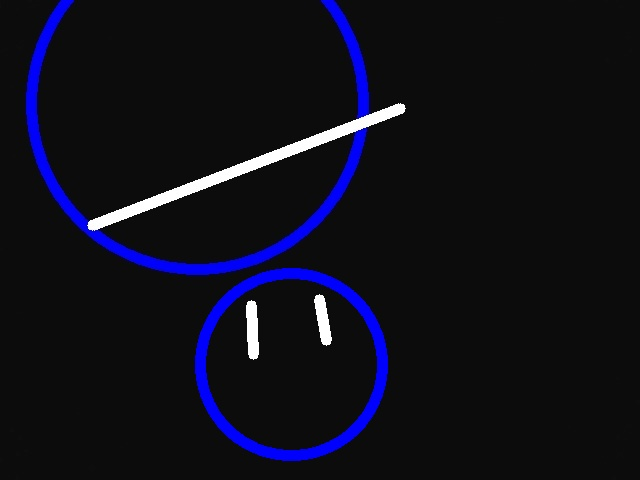
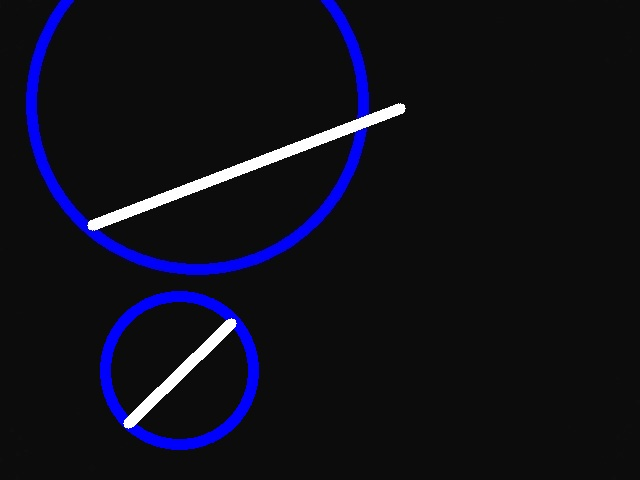
Modified the Annotation copy since it did not fully register all the shapes and optimized the ROI class to have both points

Changed region(s): [[0.1562, 0.5312, 0.625, 0.9688]]

diff --git a/src/ROIExtract.java b/src/ROIExtract.java
@@ -1,7 +1,4 @@
-import org.opencv.core.Core;
-import org.opencv.core.Mat;
-import org.opencv.core.MatOfByte;
-import org.opencv.core.Rect;
+import org.opencv.core.*;
 import org.opencv.imgcodecs.Imgcodecs;
 import org.opencv.imgproc.Imgproc;
 
@@ -36,7 +33,9 @@ public class ROIExtract {
     private static void loadData(){
         try(Scanner reader = new Scanner(new File("Images\\Data_Annotation_Copy_Image0.txt"))){
             System.out.println("start");
+            int counter = 0;
             while(reader.hasNextLine()){
+                counter++;
                 String currentROI = reader.nextLine();
                 System.out.println("in " + currentROI);
                 if(currentROI.isEmpty()){
@@ -44,24 +43,58 @@ public class ROIExtract {
                 }
                 //Simplifies storing information into objects
                 String[] currROI = currentROI.split(",");
+
                 // This is easier to store information compared to Storing an ArrayList inside an ArrayList
-                ROI roi1 = new ROI(currROI[0],Integer.parseInt(currROI[1]),
-                        Integer.parseInt(currROI[2]),Integer.parseInt(currROI[3]));
+                // The index will never go out of bounds, therefore this is acceptable
+                // also splits the {X,Y} Points so combining string is necessary
+                double[] xValues = new double[]{Double.parseDouble(currROI[2].replace("{","").trim())
+                        , Double.parseDouble(currROI[4].replace("{","").trim())};
+                double[] yValues = new double[]{Double.parseDouble(currROI[3].replace("}","").trim())
+                        , Double.parseDouble(currROI[5].replace("}","").trim())};
+
+                // Restore pts to get Rectangle size
+                Point currPt = new Point(xValues[0],yValues[0]);
+//                System.out.println(currPt + "PT");
+                Point endPt = new Point(xValues[1],yValues[1]);
+//                System.out.println(endPt + "PT");
+                ROI roi1 = new ROI(currROI[0],Integer.parseInt(currROI[1]),currPt,endPt);
 
                 ROIs.add(roi1);
                 //Will only show memory location, use ROIs.get(#).(objectsIdentifier) to get specifics
                 System.out.println(ROIs);
+                System.out.println(counter);
             }
         }
         catch(Exception e){
-            System.out.println(e.getMessage());
+            System.out.println("ERROR: " + e.getMessage());
         }
     }
 
     //@TODO ADD FEATURE THAT CROPS IMAGES BASED ON THE DATA
     private static void cropSubImages(){
+        int counter = 0;
         for(ROI r : ROIs){
-
+            if(r.shape.equals("Circle")){
+                String subFile = "Images\\SubImages\\Image0_subImage"+counter;
+                // (Leftmost pixel)int x pt, (Topmost)int y pt, int width, int height
+                // length represents the radius of the circle
+                //+10 to add padding for the circle thickness
+                int padding = 10;
+                Mat subMats = imageMat.submat(new Rect((int)(r.centerPt.x - r.length) + padding/2,(int)(r.centerPt.y - r.length) + padding/2
+                        ,2*r.length+padding,2*r.length+padding));
+                Imgcodecs.imwrite(subFile+".jpg",subMats);
+            }
+            else if(r.shape.equals("Line")){
+                double centerX = r.centerPt.x;
+                double centerY = r.centerPt.y;
+                double endX = r.endPt.x;
+                double endY = r.endPt.y;
+                int padding = 10;
+                Mat subMats = imageMat.submat(new Rect((int)Math.min(centerX,endX) + padding/2
+                        , (int)Math.min(centerY,endY) + padding/2, (int)(Math.max(centerX,endX) - Math.min(centerX,endX)) + padding
+                        , (int)(Math.max(centerY,endY) - Math.min(centerY,endY)) + padding));
+            }
+            counter++;
         }
     }
 
@@ -70,14 +103,14 @@ public class ROIExtract {
     private static class ROI{
         private String shape;
         private int length;
-        private int x;
-        private int y;
+        private Point centerPt;
+        private Point endPt;
 
-        public ROI(String shape, int length, int x, int y){
+        public ROI(String shape, int length, Point centerPt, Point endPt){
             this.shape = shape;
             this.length = length;
-            this.x = x;
-            this.y = y;
+            this.centerPt = centerPt;
+            this.endPt = endPt;
         }
     }
 

diff --git a/src/AnnotationTools.java b/src/AnnotationTools.java
@@ -92,10 +92,7 @@ public class AnnotationTools extends JFrame {
                     lineC = true;
                 }
                 System.out.println("Saved");
-                imageMat = tempM;
-                Imgcodecs.imencode(".jpg",imageMat,matB);
-                image.setIcon(new ImageIcon(matB.toArray()));
-                System.out.println(originalPt);
+
             }
 
             @Override
@@ -103,15 +100,19 @@ public class AnnotationTools extends JFrame {
                 super.mouseReleased(e);
                 if(e.getButton() == 1) {
                     circleC = false;
-                    // Shape, radius, Center X pt, Center Y pt
-                    actions.add("Circle,"+slope + "," + (int)originalPt.x +","+(int)originalPt.y);
+                    // Shape, radius, Center pt, End pt
+                    actions.add("Circle,"+slope + "," + originalPt +","+ optimizedPt);
                 }
                 //Right click
                 else if(e.getButton() == 3){
                     lineC = false;
-                    // Shape, Length, Starting X pt, Starting Y pt
-                    actions.add("Line,"+slope + "," + (int)originalPt.x +","+(int)originalPt.y);
+                    // Shape, Length, Starting pt, End pt
+                    actions.add("Line,"+slope + "," + originalPt +","+ optimizedPt);
                 }
+                imageMat = tempM;
+//                Imgcodecs.imencode(".jpg",imageMat,matB);
+//                image.setIcon(new ImageIcon(matB.toArray()));
+//                System.out.println(originalPt);
             }
         });
 
